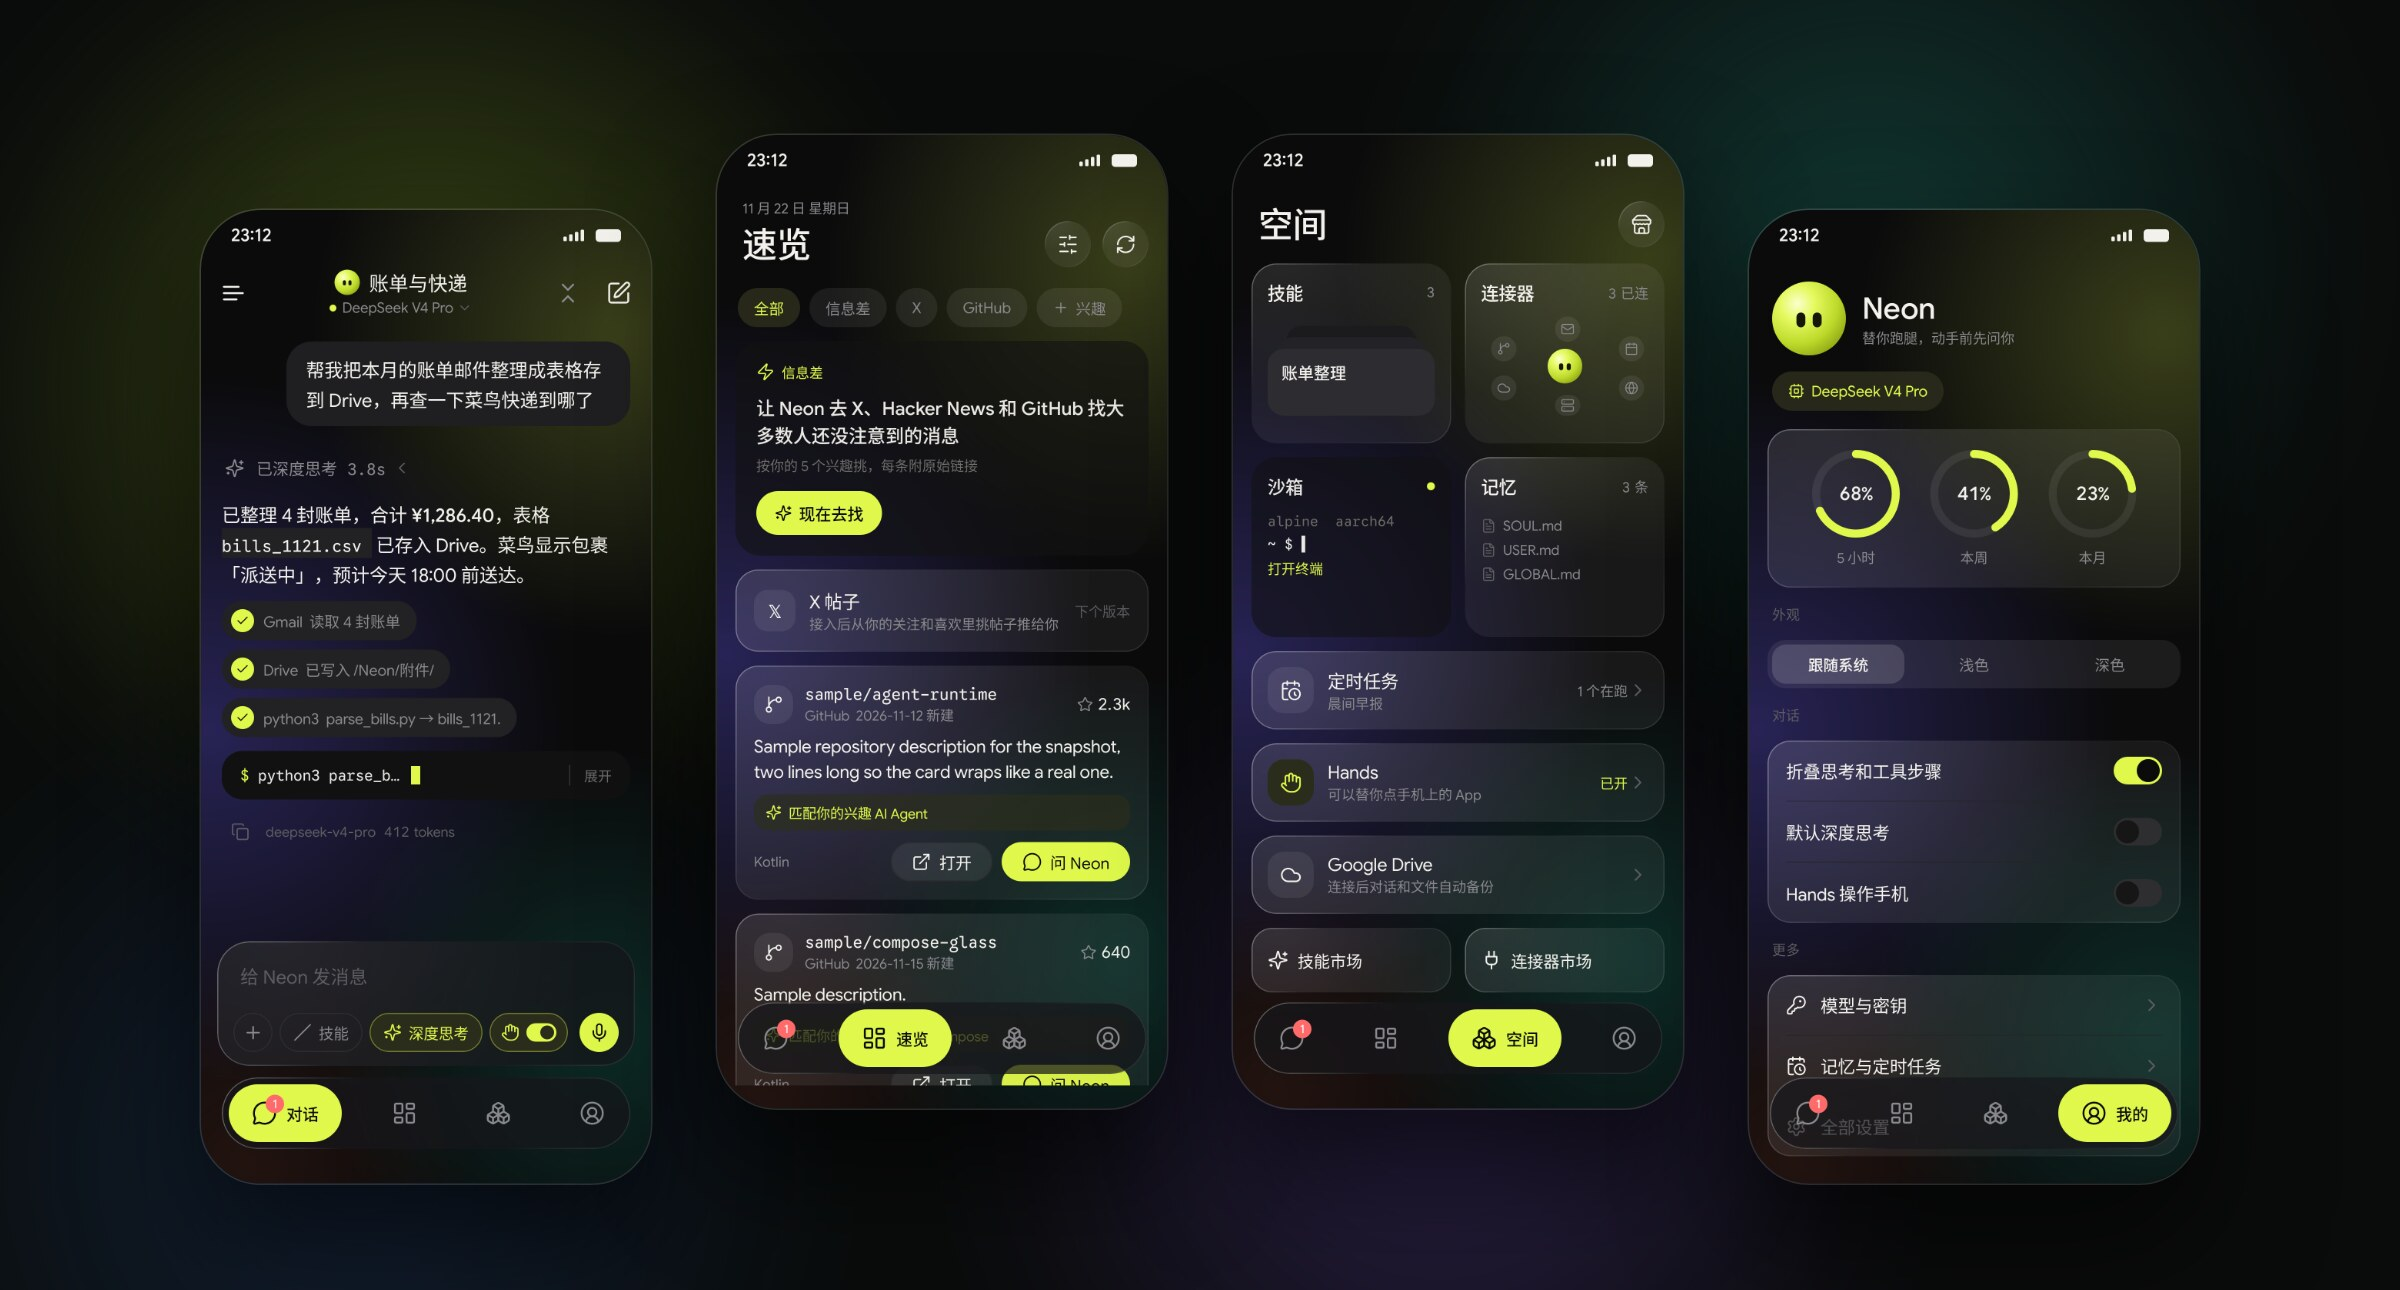
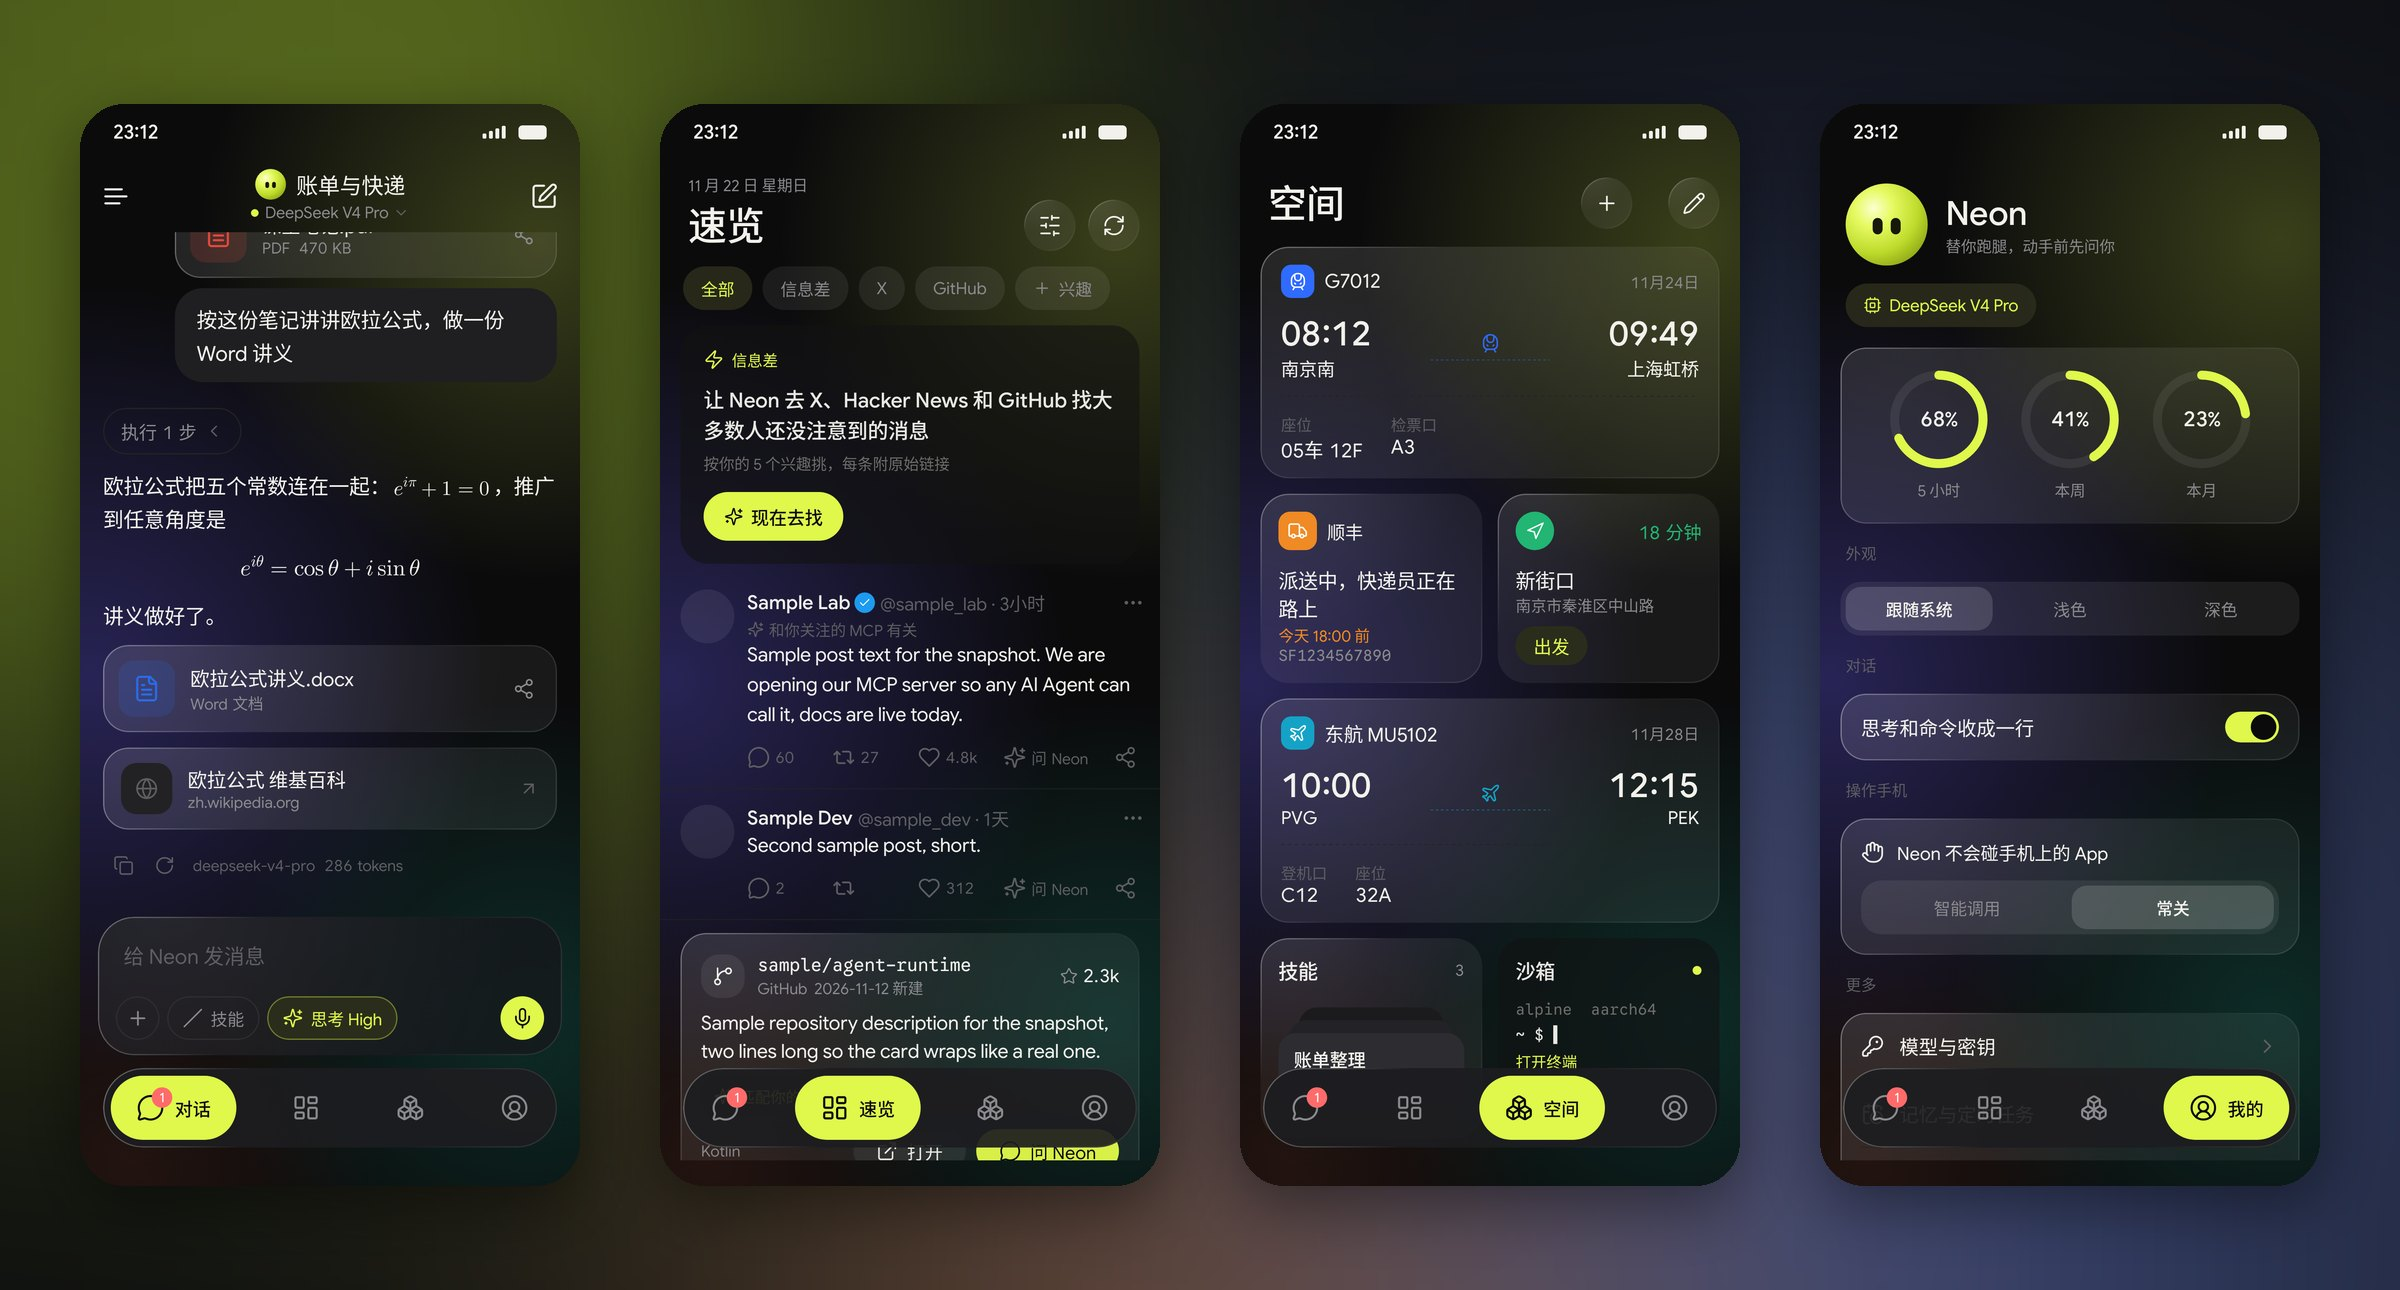
README: v0.4.4 截图和功能展示，去掉交互流程图

diff --git a/android/app/src/test/java/com/qigai/neon/ScreensSnapshotTest.kt b/android/app/src/test/java/com/qigai/neon/ScreensSnapshotTest.kt
@@ -169,6 +169,9 @@ class ScreensSnapshotTest {
     @Test fun v043ThinkDark() = darkShot("v043-think", content = @Composable { HomeFrame(com.qigai.neon.ui.home.HomeTab.CHAT) { Chat(listOf(upload), busy = true, thinkOpen = true, effort = "max", attachments = listOf(com.qigai.neon.ui.chat.PendingAttachment("截图.png", "/workspace/uploads/截图.png", "image/png", 120_000))) } })
     @Test fun v043SpaceDark() = darkShot("v043-space", content = @Composable { HomeFrame(com.qigai.neon.ui.home.HomeTab.SPACE) { com.qigai.neon.ui.space.SpaceContent(spaceData, lifeCards) } })
     @Test fun v043SpaceEditDark() = darkShot("v043-space-edit", content = @Composable { HomeFrame(com.qigai.neon.ui.home.HomeTab.SPACE) { com.qigai.neon.ui.space.SpaceContent(spaceData, lifeCards, initialEdit = true) } })
+    @Test fun v043ChatLight() = shot("v043-chat", content = @Composable { HomeFrame(com.qigai.neon.ui.home.HomeTab.CHAT) { Chat(listOf(upload, mathAnswer), folded = true) } })
+    @Test fun v043ThinkLight() = shot("v043-think", content = @Composable { HomeFrame(com.qigai.neon.ui.home.HomeTab.CHAT) { Chat(listOf(upload), busy = true, thinkOpen = true, effort = "max", attachments = listOf(com.qigai.neon.ui.chat.PendingAttachment("截图.png", "/workspace/uploads/截图.png", "image/png", 120_000))) } })
+    @Test fun v043SpaceEditLight() = shot("v043-space-edit", content = @Composable { HomeFrame(com.qigai.neon.ui.home.HomeTab.SPACE) { com.qigai.neon.ui.space.SpaceContent(spaceData, lifeCards, initialEdit = true) } })
     @Test fun v043SpaceLight() = shot("v043-space", content = @Composable { HomeFrame(com.qigai.neon.ui.home.HomeTab.SPACE) { com.qigai.neon.ui.space.SpaceContent(spaceData, lifeCards) } })
     private val liveStep = msg("a2", "assistant", listOf(ContentBlock.ToolUse("t9", "sandbox_exec", "{\"command\":\"sed -i 's/a/b/' app.py\"}")), status = "streaming")
     @Test fun v042FoldedDark() = darkShot("v042-chat-folded", content = @Composable { HomeFrame(com.qigai.neon.ui.home.HomeTab.CHAT) { Chat(listOf(ask, answer, results), folded = true) } })
